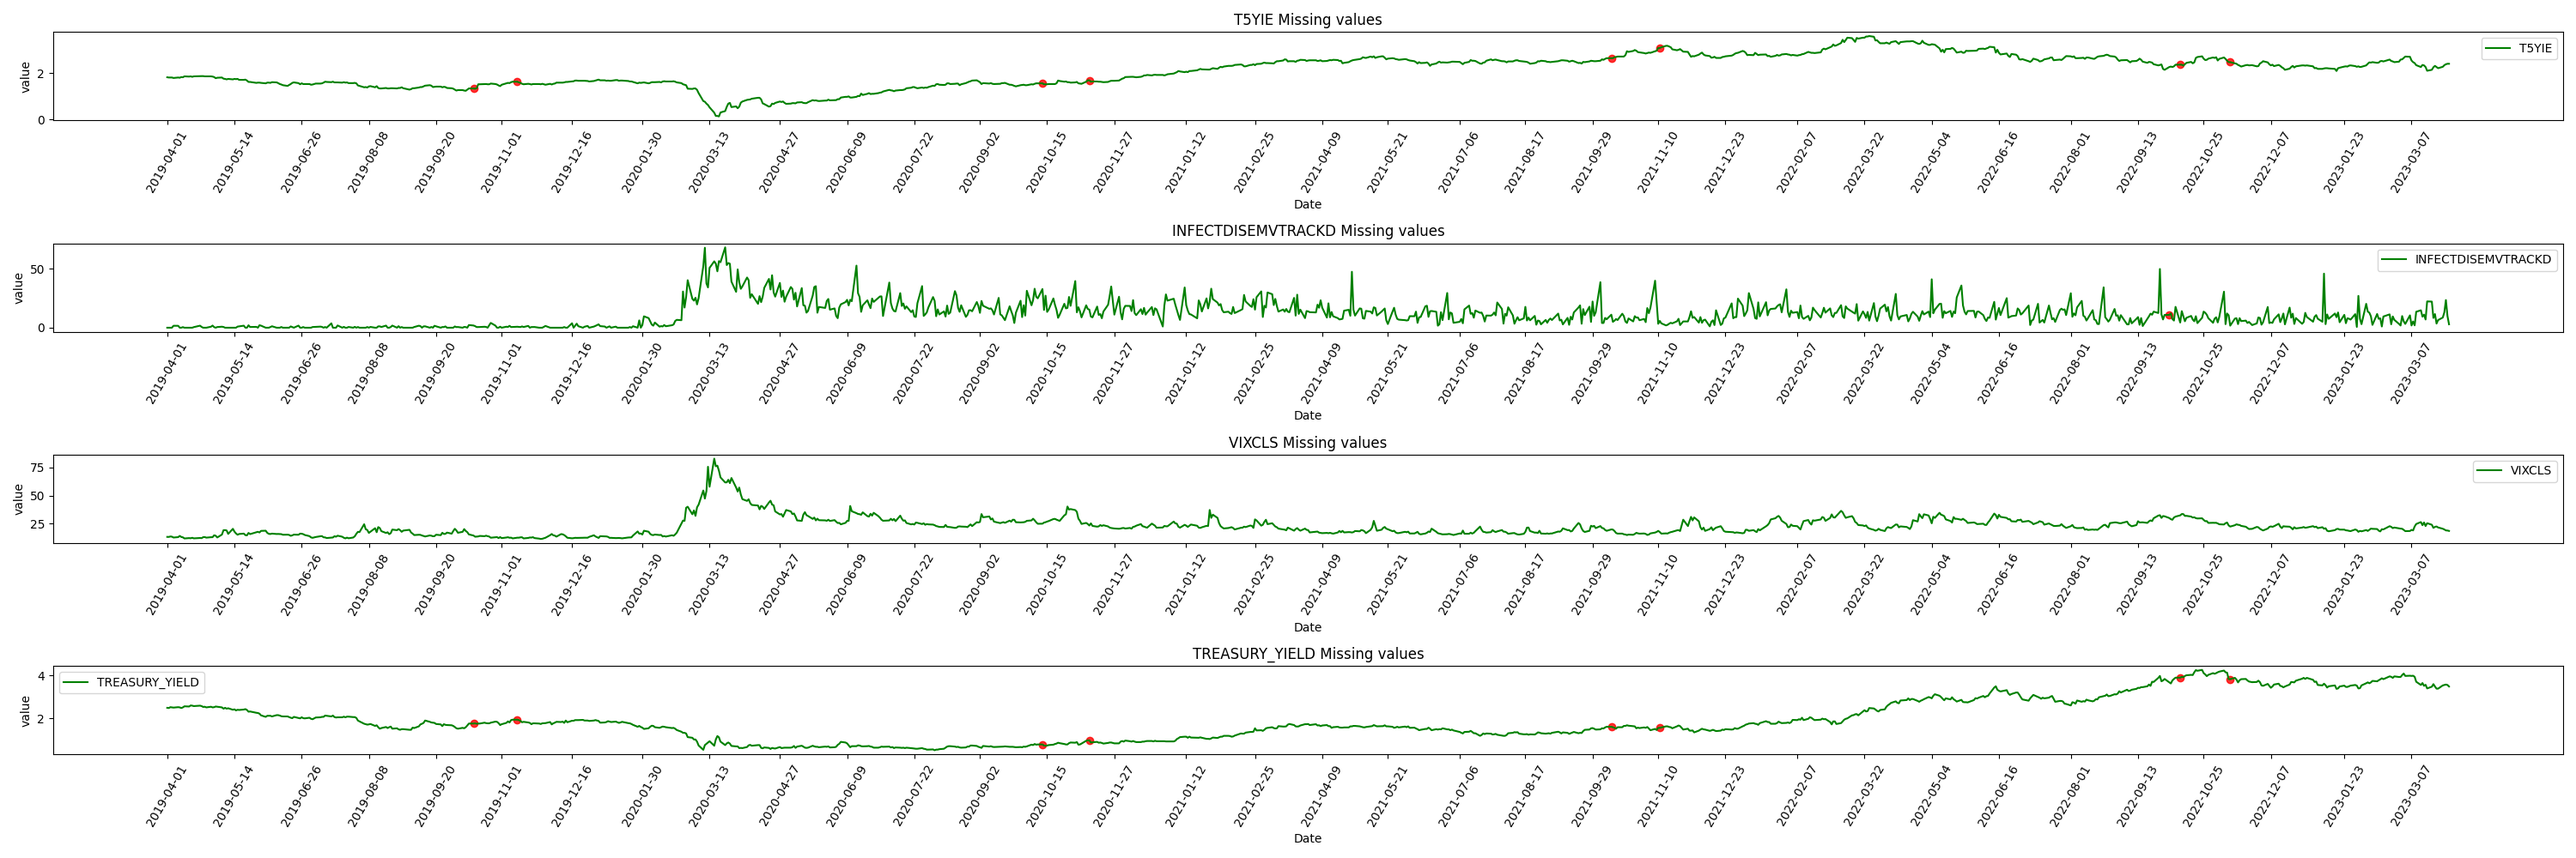
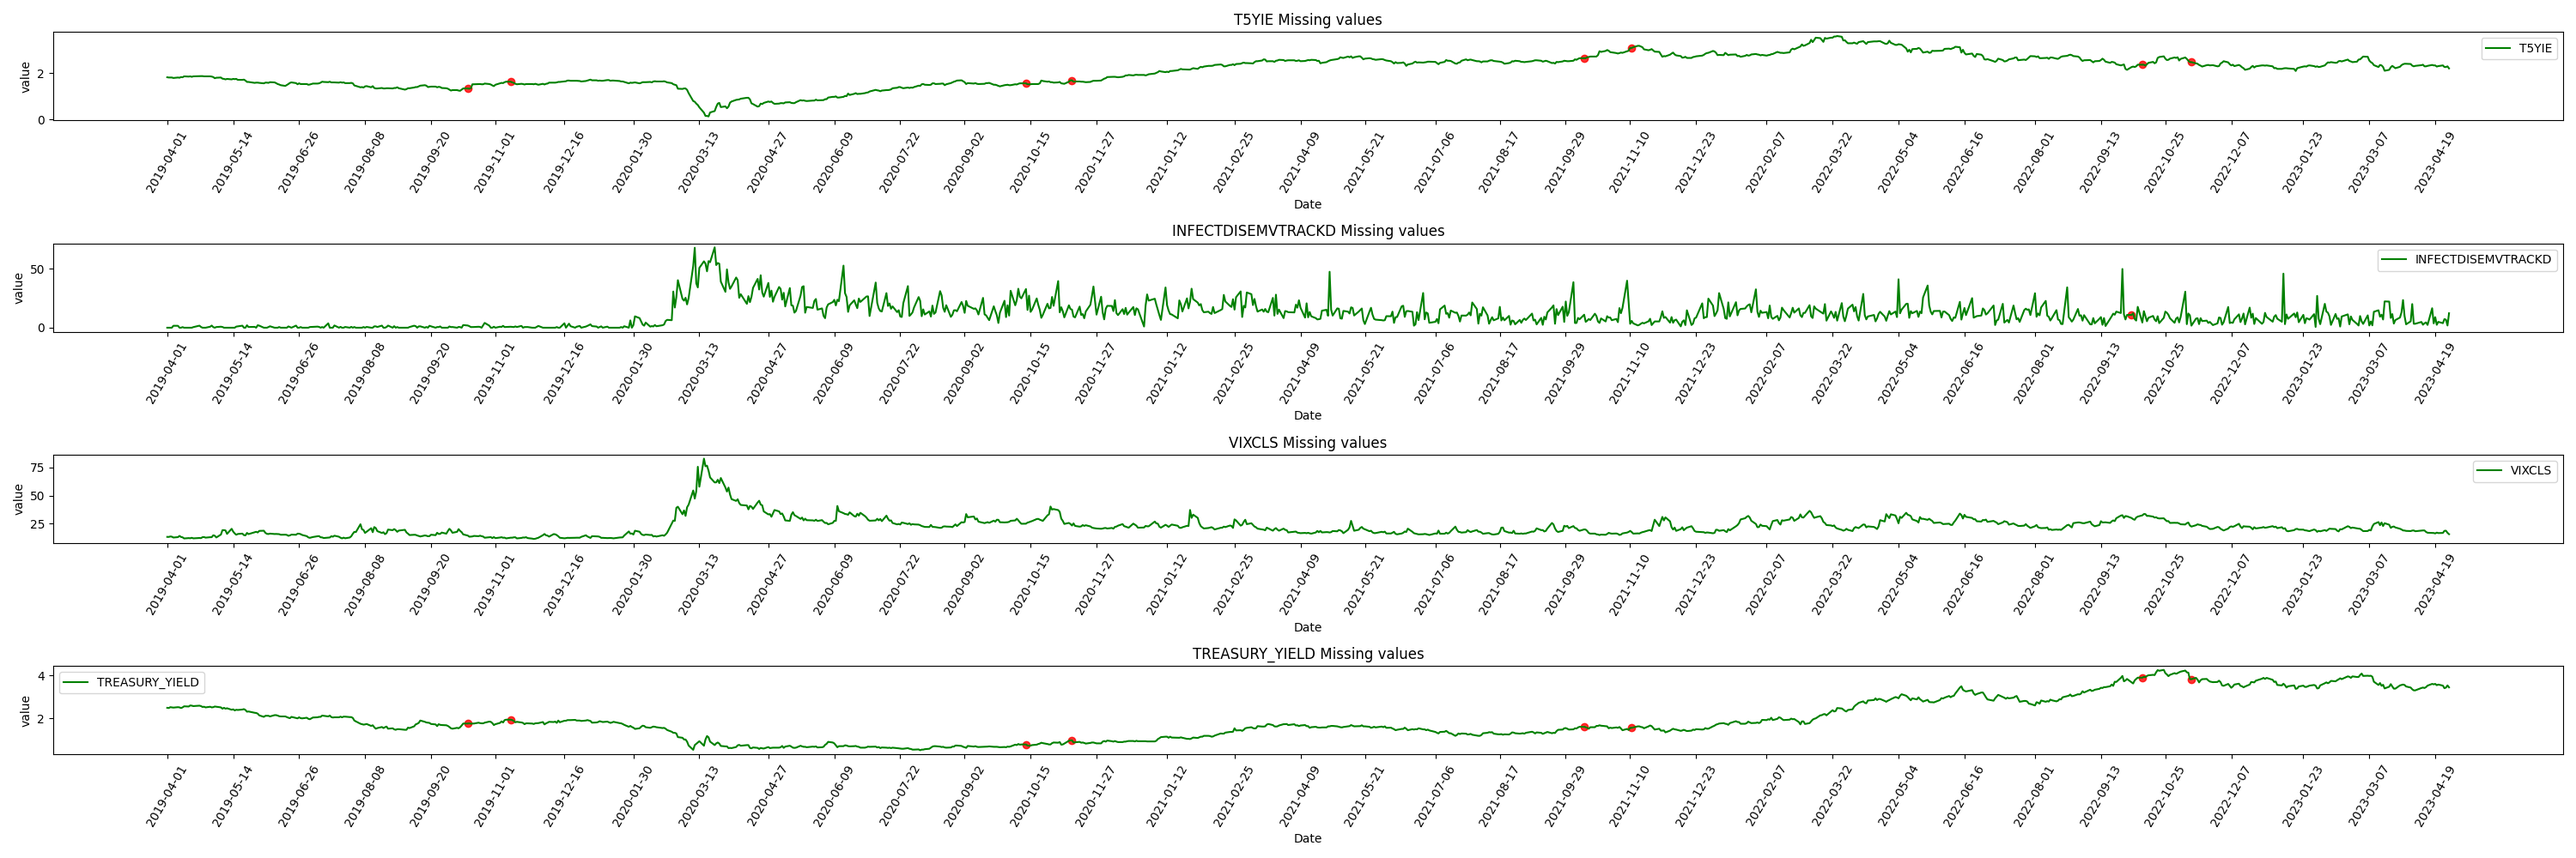
Acquire and store test set for splitting

diff --git a/clean.py b/clean.py
@@ -126,24 +126,25 @@ def iqr_detect(x: ArrayLike, threshold: float=1.5) -> ArrayLike:
     return indexes[0]
 
 
-def train_val_split(data, val_start_date: str) -> pd.DataFrame:
+def train_test_split(data, test_start_date: str) -> pd.DataFrame:
     """
     split dataset into train and validation sets
 
     Args:
         data (pd.Dataframe): dataframe with the data
+         test_start_date: first day of test set
     Returns:
         (pd.Dataframe): train set
-        (pd.Dataframe): validation set
+        (pd.Dataframe): test set
     """
     # get row index of the split date
-    split_index = data[data["date"] == val_start_date].index[0]
+    split_index = data[data["date"] >= test_start_date].index[0]
 
-    # Split data into train and validation
+    # Split data into train and test
     df_train = data.loc[: split_index - 1].reset_index(drop=True)
-    df_valid = data.loc[split_index:].reset_index(drop=True)
+    df_test = data.loc[split_index:].reset_index(drop=True)
 
-    return df_train, df_valid
+    return df_train, df_test
 
 
 def missing_figures(data: pd.DataFrame, indexes):
@@ -234,14 +235,17 @@ def outliers_figure(data: pd.DataFrame, name: str):
     plt.savefig(f"{folder_path}/{name}.png")  
 
 
-def clean_data() -> pd.DataFrame:
+def clean_data(test_split:str) -> pd.DataFrame:
     """
-    read, clean, format the data stored in Mongo and split it
+    read, clean, format the data stored in Mongo and split it into train and test set
 
     Args:
+        test_split(str): first day of test set
 
     Returns:
         (pd.Dataframe): data merged and cleaned
+        (pd.Dataframe): train set
+        (pd.Dataframe): test set
 
     """
     # Connect with the collections
@@ -288,4 +292,6 @@ def clean_data() -> pd.DataFrame:
     # Merge dataset
     pd_concat = pd.merge(df_stock_prices, df_aux_imputed, on="date", how="inner").reset_index(drop=True)
 
-    return pd_concat, indexes
+    train_set,test_set = train_test_split(pd_concat,test_split)
+
+    return pd_concat,train_set,test_set

diff --git a/main.py b/main.py
@@ -52,7 +52,8 @@ def main():
 
     # Define general parameters for the Queries to API
     start_date = '2019-04-01'
-    end_date = '2023-03-31'
+    end_date =  '2023-04-30'
+    split_day = '2023-04-01' # start day of test set
     symbol = 'MSFT'
 
     # Create object for acquiring the data
@@ -65,8 +66,8 @@ def main():
     # Store the data in MongoDB Atlas
     store_data(df_stock_prices, df_aux_economic_data)
 
-    # Read, format and clean the data
-    data_cleaned, missing_index = clean_data()
+    # Read, format, clean the data, plot outliers and split data
+    data_cleaned, training_set, test_set = clean_data(split_day)
 
 if __name__ == "__main__":
     main()
